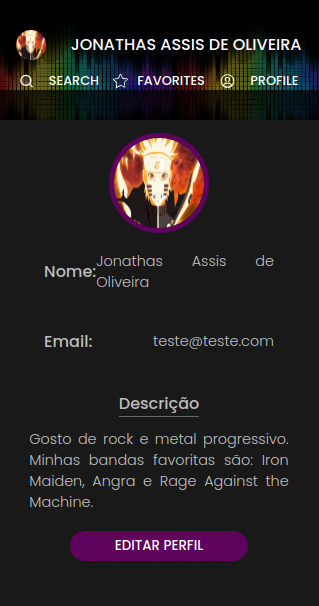
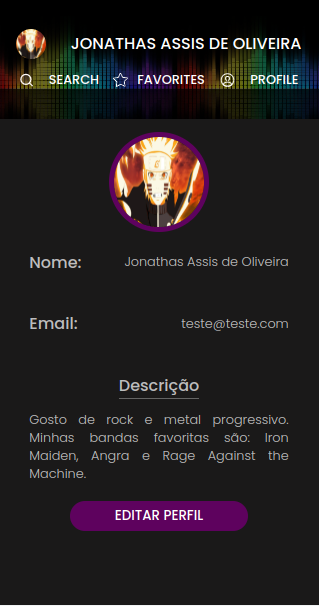
Refactor: CSS Profile and Add: Image preview

diff --git a/src/css/Profile.css b/src/css/Profile.css
@@ -38,7 +38,7 @@
 
 .profile-info {
   padding: 3vh;
-  width: 90%;
+  width: 100%;
   display: flex;
   align-items: center;
   justify-content: space-between;
@@ -54,12 +54,17 @@
   margin-bottom: 2vh;
 }
 
-.profile-info p, .profile-info-description p {
-  font-size: 0.9em;
+.profile-info p {
+  font-size: 0.8em;
+  font-weight: 300;
+  text-align: end;
+}
+
+.profile-info-description p {
+  font-size: 0.8em;
   font-weight: 300;
   text-align: justify;
 }
-
 .profile-info-description {
   padding: 3vh;
   width: 100%;
